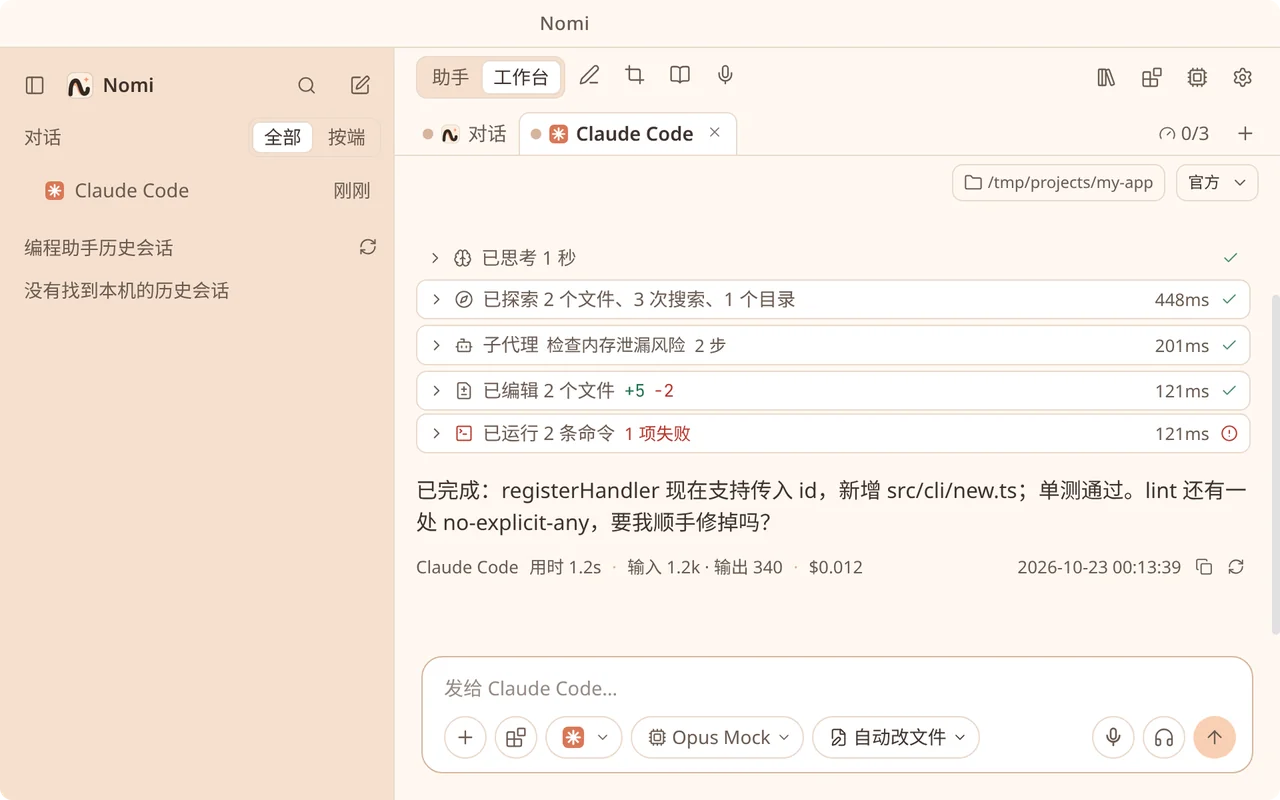
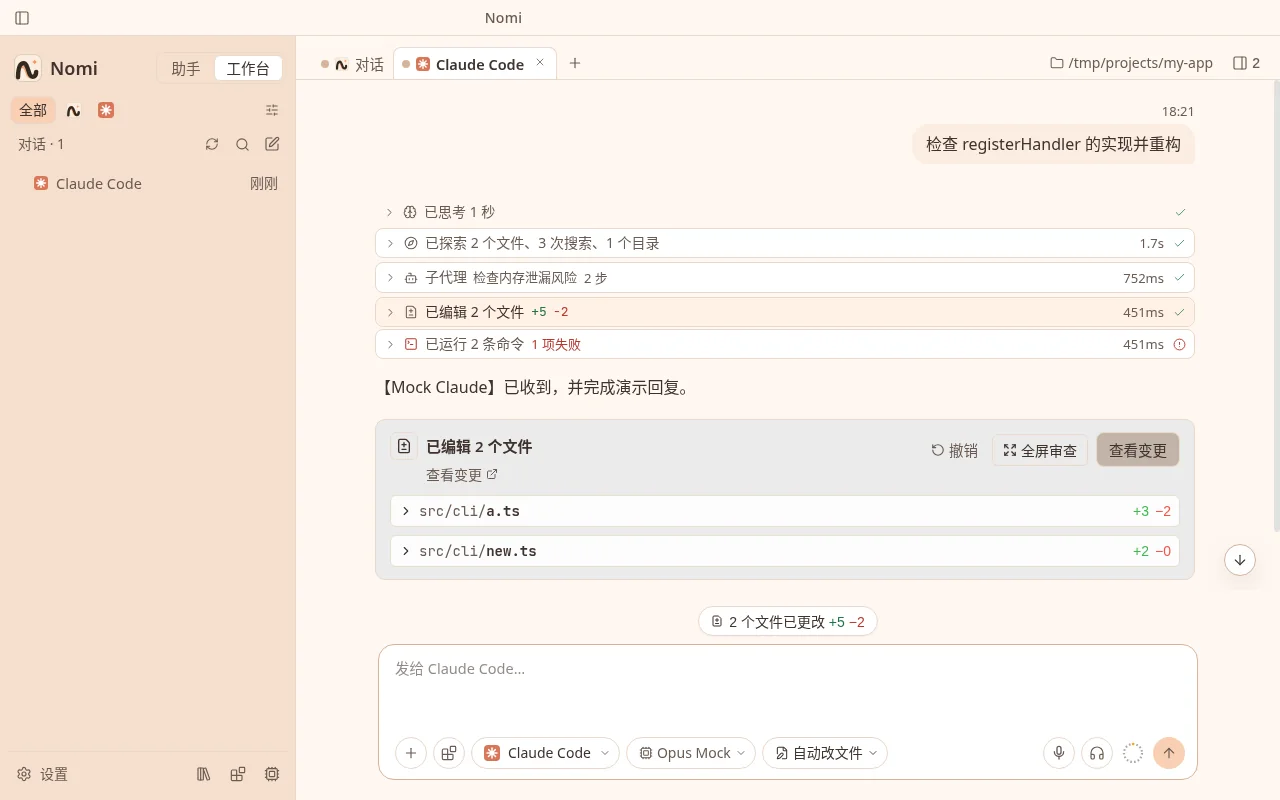
docs(site): retake chat, coding-agent and settings-providers screenshots
Real Electron under xvfb driven by the mock CLI; drop stale 2x variants and refresh alt text.

diff --git a/index.html b/index.html
@@ -12,7 +12,7 @@
   <link rel="icon" href="assets/brand/nomi-mark.svg" type="image/svg+xml" />
   <link rel="preload" href="assets/fonts/nunito-latin.woff2" as="font" type="font/woff2" crossorigin />
   <link rel="preload" as="image" href="assets/brand/nomi-brand-avatar-440.webp" imagesrcset="assets/brand/nomi-brand-avatar-440.webp 440w, assets/brand/nomi-brand-avatar-880.webp 880w" imagesizes="(max-width: 500px) calc(100vw - 6rem), 413px" fetchpriority="high" />
-  <link rel="stylesheet" href="css/styles.css?v=20261023c" />
+  <link rel="stylesheet" href="css/styles.css?v=20261023d" />
 </head>
 <body data-page="home" id="top">
   <header class="site-header">
@@ -144,7 +144,7 @@
             <p data-i18n="spot.local.desc">对话与记忆留在本机；Key 加密；可开启仅本地模型。有用之外，还要让你安心。</p>
           </div>
           <div class="spotlight-media">
-            <img src="assets/screenshots/local-models.webp?v=20261023c" srcset="assets/screenshots/local-models-640.webp?v=20261023c 640w, assets/screenshots/local-models.webp?v=20261023c 1280w, assets/screenshots/local-models-2x.webp?v=20261023c 2560w" sizes="(max-width: 800px) calc(100vw - 2.5rem), 560px" data-i18n-alt="gallery.localModelsAlt" alt="本机小模型列表：按内存推荐模型，可一键下载并离线运行" width="1280" height="800" loading="lazy" decoding="async" />
+            <img src="assets/screenshots/local-models.webp?v=20261023d" srcset="assets/screenshots/local-models-640.webp?v=20261023d 640w, assets/screenshots/local-models.webp?v=20261023d 1280w, assets/screenshots/local-models-2x.webp?v=20261023d 2560w" sizes="(max-width: 800px) calc(100vw - 2.5rem), 560px" data-i18n-alt="gallery.localModelsAlt" alt="本机小模型列表：按内存推荐模型，可一键下载并离线运行" width="1280" height="800" loading="lazy" decoding="async" />
           </div>
         </div>
         <div class="spotlight">
@@ -154,7 +154,7 @@
             <p data-i18n="spot.coding.desc">切到工作台模式，Claude Code、Codex、Gemini CLI、Grok、dsh 多标签并行；工具调用、diff 与子代理一目了然，权限与账号随手切换。</p>
           </div>
           <div class="spotlight-media">
-            <img src="assets/screenshots/workspace.webp?v=20261023c" srcset="assets/screenshots/workspace-640.webp?v=20261023c 640w, assets/screenshots/workspace.webp?v=20261023c 1280w" sizes="(max-width: 800px) calc(100vw - 2.5rem), 560px" data-i18n-alt="gallery.codingAlt" alt="工作台模式：左侧会话、中间对话与 Diff、右侧改动与文件" width="1280" height="786" loading="lazy" decoding="async" />
+            <img src="assets/screenshots/workspace.webp?v=20261023d" srcset="assets/screenshots/workspace-640.webp?v=20261023d 640w, assets/screenshots/workspace.webp?v=20261023d 1280w" sizes="(max-width: 800px) calc(100vw - 2.5rem), 560px" data-i18n-alt="gallery.codingAlt" alt="工作台模式：左侧会话、中间对话与 Diff、右侧改动与文件" width="1280" height="786" loading="lazy" decoding="async" />
           </div>
         </div>
       </div>
@@ -225,23 +225,23 @@
             <figcaption data-i18n="gallery.mascot">桌面伙伴</figcaption>
           </figure>
           <figure class="gallery-item">
-            <img src="assets/screenshots/chat.webp?v=20261023c" srcset="assets/screenshots/chat-640.webp?v=20261023c 640w, assets/screenshots/chat.webp?v=20261023c 1280w, assets/screenshots/chat-2x.webp?v=20261023c 2560w" sizes="(max-width: 700px) calc(100vw - 2.5rem), 560px" data-i18n-alt="gallery.chatAlt" alt="助手模式：顶栏一键切换助手 / 工作台，左侧会话列表，右侧是开聊的快捷建议" width="1280" height="800" loading="lazy" decoding="async" />
+            <img src="assets/screenshots/chat.webp?v=20261023d" srcset="assets/screenshots/chat-640.webp?v=20261023d 640w, assets/screenshots/chat.webp?v=20261023d 1280w" sizes="(max-width: 700px) calc(100vw - 2.5rem), 560px" data-i18n-alt="gallery.chatAlt" alt="助手模式：顶栏一键切换助手 / 工作台，左侧会话列表，右侧是开聊的快捷建议" width="1280" height="800" loading="lazy" decoding="async" />
             <figcaption data-i18n="gallery.chat">助手模式</figcaption>
           </figure>
           <figure class="gallery-item">
-            <img src="assets/screenshots/command-palette.webp?v=20261023c" srcset="assets/screenshots/command-palette-640.webp?v=20261023c 640w, assets/screenshots/command-palette.webp?v=20261023c 1280w, assets/screenshots/command-palette-2x.webp?v=20261023c 2560w" sizes="(max-width: 700px) calc(100vw - 2.5rem), 560px" data-i18n-alt="gallery.paletteAlt" alt="命令面板（Ctrl/⌘+K）：搜索并执行新对话、设置、记忆等命令" width="1280" height="800" loading="lazy" decoding="async" />
+            <img src="assets/screenshots/command-palette.webp?v=20261023d" srcset="assets/screenshots/command-palette-640.webp?v=20261023d 640w, assets/screenshots/command-palette.webp?v=20261023d 1280w, assets/screenshots/command-palette-2x.webp?v=20261023d 2560w" sizes="(max-width: 700px) calc(100vw - 2.5rem), 560px" data-i18n-alt="gallery.paletteAlt" alt="命令面板（Ctrl/⌘+K）：搜索并执行新对话、设置、记忆等命令" width="1280" height="800" loading="lazy" decoding="async" />
             <figcaption data-i18n="gallery.palette">命令面板（Ctrl/⌘+K）</figcaption>
           </figure>
           <figure class="gallery-item">
-            <img src="assets/screenshots/settings-providers.webp?v=20261023c" srcset="assets/screenshots/settings-providers-640.webp?v=20261023c 640w, assets/screenshots/settings-providers.webp?v=20261023c 1280w, assets/screenshots/settings-providers-2x.webp?v=20261023c 2560w" sizes="(max-width: 700px) calc(100vw - 2.5rem), 560px" data-i18n-alt="gallery.providersAlt" alt="AI 供应商面板：DeepSeek、OpenAI、Anthropic、Gemini 与本地 Ollama" width="1280" height="800" loading="lazy" decoding="async" />
+            <img src="assets/screenshots/settings-providers.webp?v=20261023d" srcset="assets/screenshots/settings-providers-640.webp?v=20261023d 640w, assets/screenshots/settings-providers.webp?v=20261023d 1280w" sizes="(max-width: 700px) calc(100vw - 2.5rem), 560px" data-i18n-alt="gallery.providersAlt" alt="模型页：编程助手第三方模型分配与第三方供应商列表" width="1280" height="800" loading="lazy" decoding="async" />
             <figcaption data-i18n="gallery.providers">供应商与模型</figcaption>
           </figure>
           <figure class="gallery-item">
-            <img src="assets/screenshots/knowledge.webp?v=20261023c" srcset="assets/screenshots/knowledge-640.webp?v=20261023c 640w, assets/screenshots/knowledge.webp?v=20261023c 1280w, assets/screenshots/knowledge-2x.webp?v=20261023c 2560w" sizes="(max-width: 700px) calc(100vw - 2.5rem), 560px" data-i18n-alt="gallery.knowledgeAlt" alt="本地知识库检索：按关键词命中文件夹里的笔记，并标出来源文档" width="1280" height="800" loading="lazy" decoding="async" />
+            <img src="assets/screenshots/knowledge.webp?v=20261023d" srcset="assets/screenshots/knowledge-640.webp?v=20261023d 640w, assets/screenshots/knowledge.webp?v=20261023d 1280w, assets/screenshots/knowledge-2x.webp?v=20261023d 2560w" sizes="(max-width: 700px) calc(100vw - 2.5rem), 560px" data-i18n-alt="gallery.knowledgeAlt" alt="本地知识库检索：按关键词命中文件夹里的笔记，并标出来源文档" width="1280" height="800" loading="lazy" decoding="async" />
             <figcaption data-i18n="gallery.knowledge">本地知识库</figcaption>
           </figure>
           <figure class="gallery-item">
-            <img src="assets/screenshots/tools.webp?v=20261023c" srcset="assets/screenshots/tools-640.webp?v=20261023c 640w, assets/screenshots/tools.webp?v=20261023c 1280w, assets/screenshots/tools-2x.webp?v=20261023c 2560w" sizes="(max-width: 700px) calc(100vw - 2.5rem), 560px" data-i18n-alt="gallery.toolsAlt" alt="桌面工具权限：只读工具默认允许，写入需确认，删除需逐次确认" width="1280" height="800" loading="lazy" decoding="async" />
+            <img src="assets/screenshots/tools.webp?v=20261023d" srcset="assets/screenshots/tools-640.webp?v=20261023d 640w, assets/screenshots/tools.webp?v=20261023d 1280w, assets/screenshots/tools-2x.webp?v=20261023d 2560w" sizes="(max-width: 700px) calc(100vw - 2.5rem), 560px" data-i18n-alt="gallery.toolsAlt" alt="桌面工具权限：只读工具默认允许，写入需确认，删除需逐次确认" width="1280" height="800" loading="lazy" decoding="async" />
             <figcaption data-i18n="gallery.tools">工具权限</figcaption>
           </figure>
         </div>
@@ -306,11 +306,11 @@
         </div>
         <div class="contact-grid">
           <figure class="contact-card">
-            <picture><source srcset="assets/contact/qr-author.webp?v=20261023c" type="image/webp" /><img src="assets/contact/qr-author.png?v=20261023c" width="360" height="480" loading="lazy" decoding="async" alt="作者微信二维码" data-i18n-alt="contact.author.alt" /></picture>
+            <picture><source srcset="assets/contact/qr-author.webp?v=20261023d" type="image/webp" /><img src="assets/contact/qr-author.png?v=20261023d" width="360" height="480" loading="lazy" decoding="async" alt="作者微信二维码" data-i18n-alt="contact.author.alt" /></picture>
             <figcaption data-i18n="contact.author.cap">作者微信 · Tomo</figcaption>
           </figure>
           <figure class="contact-card">
-            <picture><source srcset="assets/contact/qr-group.webp?v=20261023c" type="image/webp" /><img src="assets/contact/qr-group.png?v=20261023c" width="360" height="480" loading="lazy" decoding="async" alt="Nomi 用户交流群二维码" data-i18n-alt="contact.group.alt" /></picture>
+            <picture><source srcset="assets/contact/qr-group.webp?v=20261023d" type="image/webp" /><img src="assets/contact/qr-group.png?v=20261023d" width="360" height="480" loading="lazy" decoding="async" alt="Nomi 用户交流群二维码" data-i18n-alt="contact.group.alt" /></picture>
             <figcaption data-i18n="contact.group.cap">Nomi 用户交流群</figcaption>
           </figure>
         </div>
@@ -355,7 +355,7 @@
       </div>
     </div>
   </footer>
-  <script src="js/i18n.js?v=20261023c"></script>
-  <script src="js/main.js?v=20261023c"></script>
+  <script src="js/i18n.js?v=20261023d"></script>
+  <script src="js/main.js?v=20261023d"></script>
 </body>
 </html>

diff --git a/features.html b/features.html
@@ -9,7 +9,7 @@
   <link rel="icon" href="assets/brand/nomi-mark.svg" type="image/svg+xml" />
   <link rel="preload" href="assets/fonts/nunito-latin.woff2" as="font" type="font/woff2" crossorigin />
   <script>document.documentElement.className+=" js"</script>
-  <link rel="stylesheet" href="css/styles.css?v=20261023c" />
+  <link rel="stylesheet" href="css/styles.css?v=20261023d" />
 </head>
 <body data-page="features">
   <header class="site-header">
@@ -93,7 +93,7 @@
           </section>
           <section class="cap-panel" role="tabpanel" id="panel-chat" aria-labelledby="tab-chat" tabindex="0">
             <figure class="cap-visual cap-visual--shot">
-              <img src="assets/screenshots/chat.webp?v=20261023c" srcset="assets/screenshots/chat-640.webp?v=20261023c 640w, assets/screenshots/chat.webp?v=20261023c 1280w, assets/screenshots/chat-2x.webp?v=20261023c 2560w" sizes="(max-width: 960px) calc(100vw - 2.5rem), 840px" data-i18n-alt="gallery.chatAlt" alt="Nomi 对话窗口：左侧是会话列表，右侧是整理今日待办的对话" width="1280" height="800" loading="lazy" decoding="async" />
+              <img src="assets/screenshots/chat.webp?v=20261023d" srcset="assets/screenshots/chat-640.webp?v=20261023d 640w, assets/screenshots/chat.webp?v=20261023d 1280w" sizes="(max-width: 960px) calc(100vw - 2.5rem), 840px" data-i18n-alt="gallery.chatAlt" alt="Nomi 对话窗口：左侧会话列表，右侧是空对话与开聊的快捷建议" width="1280" height="800" loading="lazy" decoding="async" />
             </figure>
             <div class="cap-copy">
               <h3 data-i18n="ft.chat.t">对话与屏幕问答</h3>
@@ -106,7 +106,7 @@
           </section>
           <section class="cap-panel" role="tabpanel" id="panel-memory" aria-labelledby="tab-memory" tabindex="0">
             <figure class="cap-visual cap-visual--shot">
-              <img src="assets/screenshots/knowledge.webp?v=20261023c" srcset="assets/screenshots/knowledge-640.webp?v=20261023c 640w, assets/screenshots/knowledge.webp?v=20261023c 1280w, assets/screenshots/knowledge-2x.webp?v=20261023c 2560w" sizes="(max-width: 960px) calc(100vw - 2.5rem), 840px" data-i18n-alt="gallery.knowledgeAlt" alt="本地知识库检索：按关键词命中文件夹里的笔记，并标出来源文档" width="1280" height="800" loading="lazy" decoding="async" />
+              <img src="assets/screenshots/knowledge.webp?v=20261023d" srcset="assets/screenshots/knowledge-640.webp?v=20261023d 640w, assets/screenshots/knowledge.webp?v=20261023d 1280w, assets/screenshots/knowledge-2x.webp?v=20261023d 2560w" sizes="(max-width: 960px) calc(100vw - 2.5rem), 840px" data-i18n-alt="gallery.knowledgeAlt" alt="本地知识库检索：按关键词命中文件夹里的笔记，并标出来源文档" width="1280" height="800" loading="lazy" decoding="async" />
             </figure>
             <div class="cap-copy">
               <h3 data-i18n="ft.memory.t">知识库与长期记忆</h3>
@@ -119,7 +119,7 @@
           </section>
           <section class="cap-panel" role="tabpanel" id="panel-tools" aria-labelledby="tab-tools" tabindex="0">
             <figure class="cap-visual cap-visual--shot">
-              <img src="assets/screenshots/tools.webp?v=20261023c" srcset="assets/screenshots/tools-640.webp?v=20261023c 640w, assets/screenshots/tools.webp?v=20261023c 1280w, assets/screenshots/tools-2x.webp?v=20261023c 2560w" sizes="(max-width: 960px) calc(100vw - 2.5rem), 840px" data-i18n-alt="gallery.toolsAlt" alt="桌面工具权限：只读工具默认允许，写入需确认，删除需逐次确认" width="1280" height="800" loading="lazy" decoding="async" />
+              <img src="assets/screenshots/tools.webp?v=20261023d" srcset="assets/screenshots/tools-640.webp?v=20261023d 640w, assets/screenshots/tools.webp?v=20261023d 1280w, assets/screenshots/tools-2x.webp?v=20261023d 2560w" sizes="(max-width: 960px) calc(100vw - 2.5rem), 840px" data-i18n-alt="gallery.toolsAlt" alt="桌面工具权限：只读工具默认允许，写入需确认，删除需逐次确认" width="1280" height="800" loading="lazy" decoding="async" />
             </figure>
             <div class="cap-copy">
               <h3 data-i18n="ft.tools.t">自动化与 MCP</h3>
@@ -132,7 +132,7 @@
           </section>
           <section class="cap-panel" role="tabpanel" id="panel-local" aria-labelledby="tab-local" tabindex="0">
             <figure class="cap-visual cap-visual--shot">
-              <img src="assets/screenshots/settings-providers.webp?v=20261023c" srcset="assets/screenshots/settings-providers-640.webp?v=20261023c 640w, assets/screenshots/settings-providers.webp?v=20261023c 1280w, assets/screenshots/settings-providers-2x.webp?v=20261023c 2560w" sizes="(max-width: 960px) calc(100vw - 2.5rem), 840px" data-i18n-alt="gallery.providersAlt" alt="AI 供应商面板：DeepSeek、OpenAI、Anthropic、Gemini 与本地 Ollama" width="1280" height="800" loading="lazy" decoding="async" />
+              <img src="assets/screenshots/settings-providers.webp?v=20261023d" srcset="assets/screenshots/settings-providers-640.webp?v=20261023d 640w, assets/screenshots/settings-providers.webp?v=20261023d 1280w" sizes="(max-width: 960px) calc(100vw - 2.5rem), 840px" data-i18n-alt="gallery.providersAlt" alt="模型页：编程助手第三方模型分配与第三方供应商列表" width="1280" height="800" loading="lazy" decoding="async" />
             </figure>
             <div class="cap-copy">
               <h3 data-i18n="ft.local.t">本地优先，模型自由</h3>
@@ -145,7 +145,7 @@
           </section>
           <section class="cap-panel" role="tabpanel" id="panel-coding" aria-labelledby="tab-coding" tabindex="0">
             <figure class="cap-visual cap-visual--shot">
-              <img src="assets/screenshots/workspace.webp?v=20261023c" srcset="assets/screenshots/workspace-640.webp?v=20261023c 640w, assets/screenshots/workspace.webp?v=20261023c 1280w" sizes="(max-width: 960px) calc(100vw - 2.5rem), 840px" data-i18n-alt="gallery.codingAlt" alt="工作台模式：左侧会话、中间对话与 Diff、右侧改动与文件" width="1280" height="786" loading="lazy" decoding="async" />
+              <img src="assets/screenshots/workspace.webp?v=20261023d" srcset="assets/screenshots/workspace-640.webp?v=20261023d 640w, assets/screenshots/workspace.webp?v=20261023d 1280w" sizes="(max-width: 960px) calc(100vw - 2.5rem), 840px" data-i18n-alt="gallery.codingAlt" alt="工作台模式：左侧会话、中间对话与 Diff、右侧改动与文件" width="1280" height="786" loading="lazy" decoding="async" />
             </figure>
             <div class="cap-copy">
               <h3 data-i18n="ft.coding.t">编程助手</h3>
@@ -234,8 +234,8 @@
       </div>
     </div>
   </footer>
-  <script src="js/i18n.js?v=20261023c"></script>
-  <script src="js/main.js?v=20261023c"></script>
-  <script src="js/features.js?v=20261023c"></script>
+  <script src="js/i18n.js?v=20261023d"></script>
+  <script src="js/main.js?v=20261023d"></script>
+  <script src="js/features.js?v=20261023d"></script>
 </body>
 </html>

diff --git a/js/i18n.js b/js/i18n.js
@@ -93,7 +93,7 @@
       "gallery.mascotAlt": "桌面伙伴 Nomi 的立绘、对话气泡与语音工具栏",
       "gallery.chatAlt": "助手模式：顶栏一键切换助手 / 工作台，左侧会话列表，右侧是开聊的快捷建议",
       "gallery.paletteAlt": "命令面板（Ctrl/⌘+K）：搜索并执行新对话、设置、记忆等命令",
-      "gallery.providersAlt": "编程助手设置：Nomi、Claude Code、Codex、dsh、Grok、Gemini 分页，Nomi 供应商含 DeepSeek、OpenAI、Anthropic",
+      "gallery.providersAlt": "模型页：Nomi 对话与各编程助手的第三方模型分配，以及第三方供应商列表",
       "gallery.knowledgeAlt": "本地知识库检索：按关键词命中文件夹里的笔记，并标出来源文档",
       "gallery.toolsAlt": "桌面工具权限：只读工具默认允许，写入需确认，删除需逐次确认",
       "gallery.localModelsAlt": "本机小模型列表：按内存推荐模型，可一键下载并离线运行",
@@ -435,7 +435,7 @@
       "gallery.mascotAlt": "Nomi the desktop companion with a chat bubble and the voice toolbar",
       "gallery.chatAlt": "Assistant mode: Assistant / Workbench switch in the top bar, conversation list on the left, quick starters on the right",
       "gallery.paletteAlt": "Command palette (Ctrl/⌘+K) for new chat, settings, memory and more",
-      "gallery.providersAlt": "Coding assistants settings: Nomi, Claude Code, Codex, dsh, Grok and Gemini tabs; Nomi providers include DeepSeek, OpenAI and Anthropic",
+      "gallery.providersAlt": "Models page: third-party model assignment for Nomi chat and each coding assistant, plus the third-party provider list",
       "gallery.knowledgeAlt": "Local knowledge base search: matching passages from your folder, with source documents",
       "gallery.toolsAlt": "Desktop tool permissions: read-only tools allowed, writes need confirmation, deletes always ask",
       "gallery.localModelsAlt": "Local models list: memory-based recommendation, one-click download, runs offline",

diff --git a/changelog.html b/changelog.html
@@ -11,7 +11,7 @@
   <title>更新日志 — Nomi·诺米</title>
   <link rel="icon" href="assets/brand/nomi-mark.svg" type="image/svg+xml" />
   <link rel="preload" href="assets/fonts/nunito-latin.woff2" as="font" type="font/woff2" crossorigin />
-  <link rel="stylesheet" href="css/styles.css?v=20261023c" />
+  <link rel="stylesheet" href="css/styles.css?v=20261023d" />
 </head>
 <body data-page="changelog" id="top">
   <header class="site-header">
@@ -225,7 +225,7 @@
       </div>
     </div>
   </footer>
-  <script src="js/i18n.js?v=20261023c"></script>
-  <script src="js/main.js?v=20261023c"></script>
+  <script src="js/i18n.js?v=20261023d"></script>
+  <script src="js/main.js?v=20261023d"></script>
 </body>
 </html>

diff --git a/download.html b/download.html
@@ -8,7 +8,7 @@
   <title>下载 — Nomi·诺米</title>
   <link rel="icon" href="assets/brand/nomi-mark.svg" type="image/svg+xml" />
   <link rel="preload" href="assets/fonts/nunito-latin.woff2" as="font" type="font/woff2" crossorigin />
-  <link rel="stylesheet" href="css/styles.css?v=20261023c" />
+  <link rel="stylesheet" href="css/styles.css?v=20261023d" />
 </head>
 <body data-page="download">
   <header class="site-header">
@@ -157,7 +157,7 @@
       </div>
     </div>
   </footer>
-  <script src="js/i18n.js?v=20261023c"></script>
-  <script src="js/main.js?v=20261023c"></script>
+  <script src="js/i18n.js?v=20261023d"></script>
+  <script src="js/main.js?v=20261023d"></script>
 </body>
 </html>

diff --git a/privacy.html b/privacy.html
@@ -8,7 +8,7 @@
   <title>隐私 — Nomi·诺米</title>
   <link rel="icon" href="assets/brand/nomi-mark.svg" type="image/svg+xml" />
   <link rel="preload" href="assets/fonts/nunito-latin.woff2" as="font" type="font/woff2" crossorigin />
-  <link rel="stylesheet" href="css/styles.css?v=20261023c" />
+  <link rel="stylesheet" href="css/styles.css?v=20261023d" />
 </head>
 <body data-page="privacy">
   <header class="site-header">
@@ -114,7 +114,7 @@
       </div>
     </div>
   </footer>
-  <script src="js/i18n.js?v=20261023c"></script>
-  <script src="js/main.js?v=20261023c"></script>
+  <script src="js/i18n.js?v=20261023d"></script>
+  <script src="js/main.js?v=20261023d"></script>
 </body>
 </html>

diff --git a/docs.html b/docs.html
@@ -8,7 +8,7 @@
   <title>文档 — Nomi·诺米</title>
   <link rel="icon" href="assets/brand/nomi-mark.svg" type="image/svg+xml" />
   <link rel="preload" href="assets/fonts/nunito-latin.woff2" as="font" type="font/woff2" crossorigin />
-  <link rel="stylesheet" href="css/styles.css?v=20261023c" />
+  <link rel="stylesheet" href="css/styles.css?v=20261023d" />
 </head>
 <body data-page="docs">
   <header class="site-header">
@@ -236,7 +236,7 @@
       </div>
     </div>
   </footer>
-  <script src="js/i18n.js?v=20261023c"></script>
-  <script src="js/main.js?v=20261023c"></script>
+  <script src="js/i18n.js?v=20261023d"></script>
+  <script src="js/main.js?v=20261023d"></script>
 </body>
 </html>
